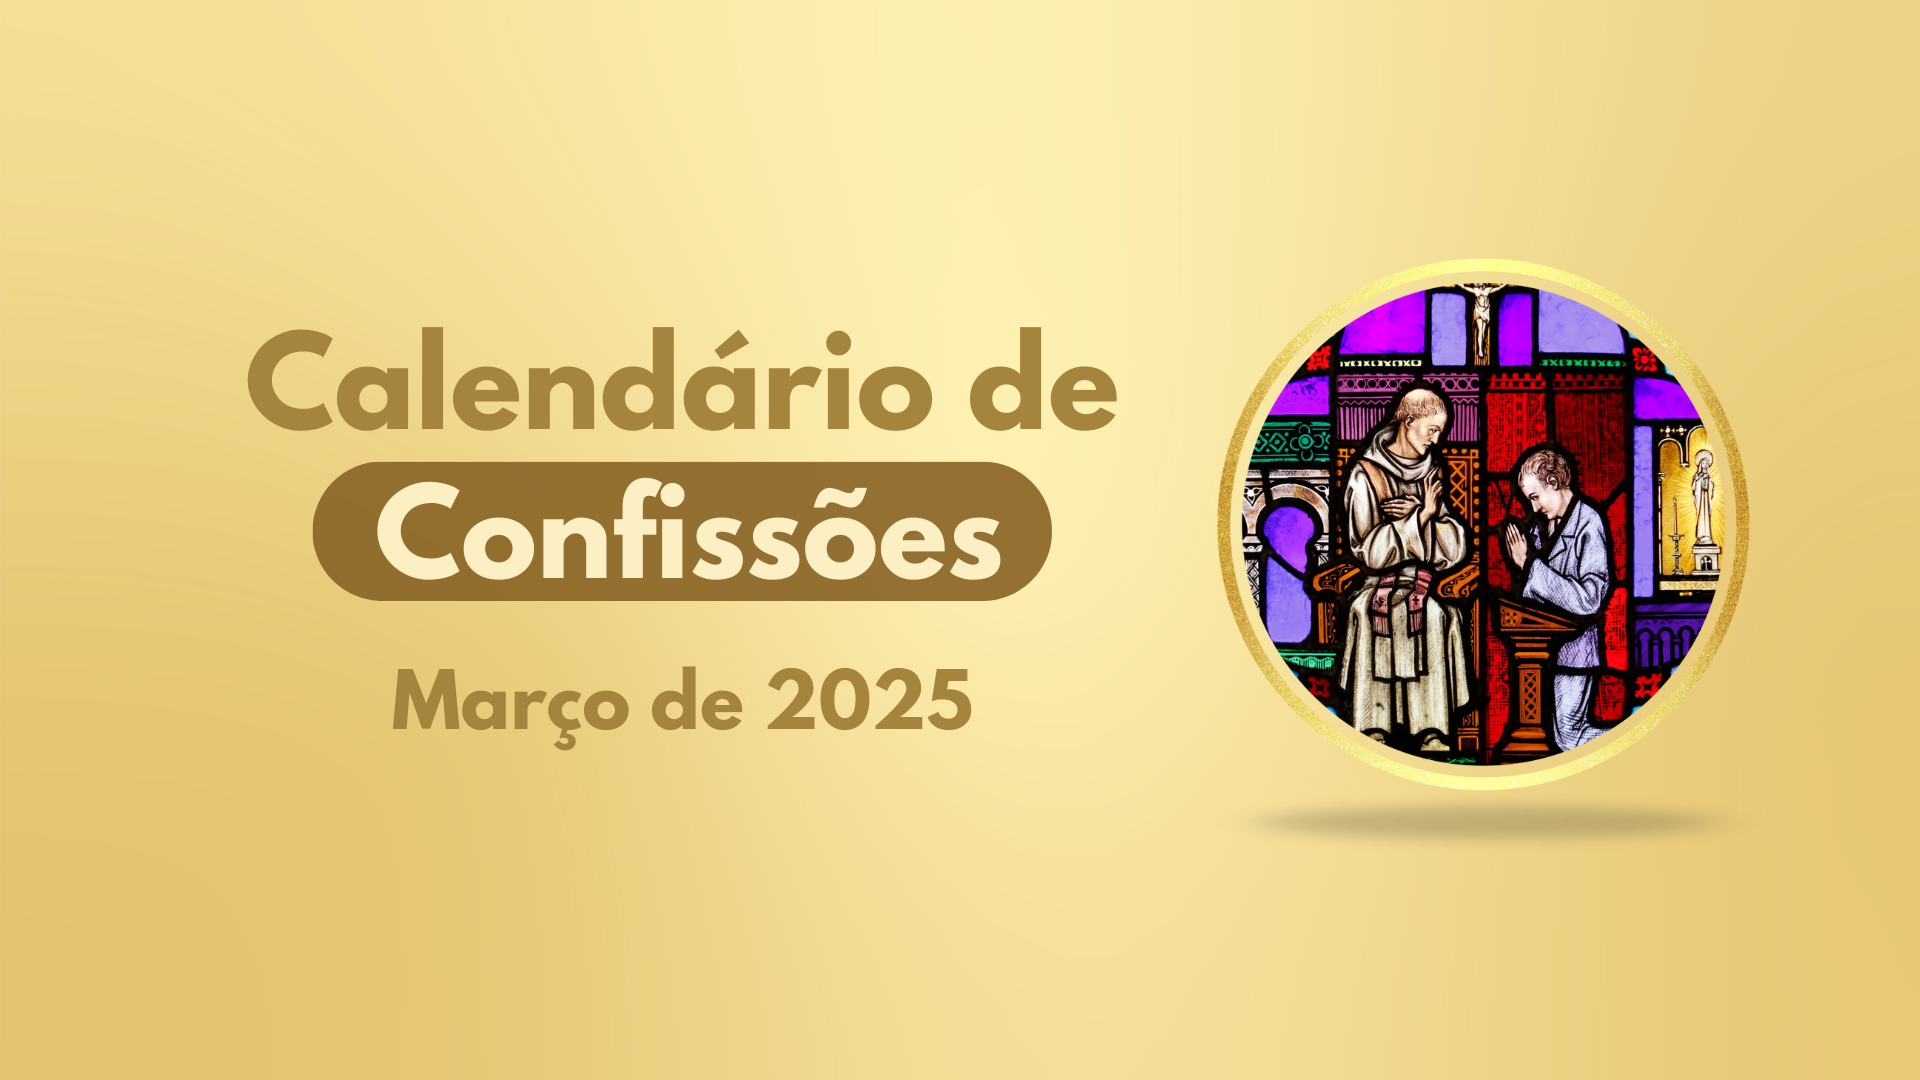
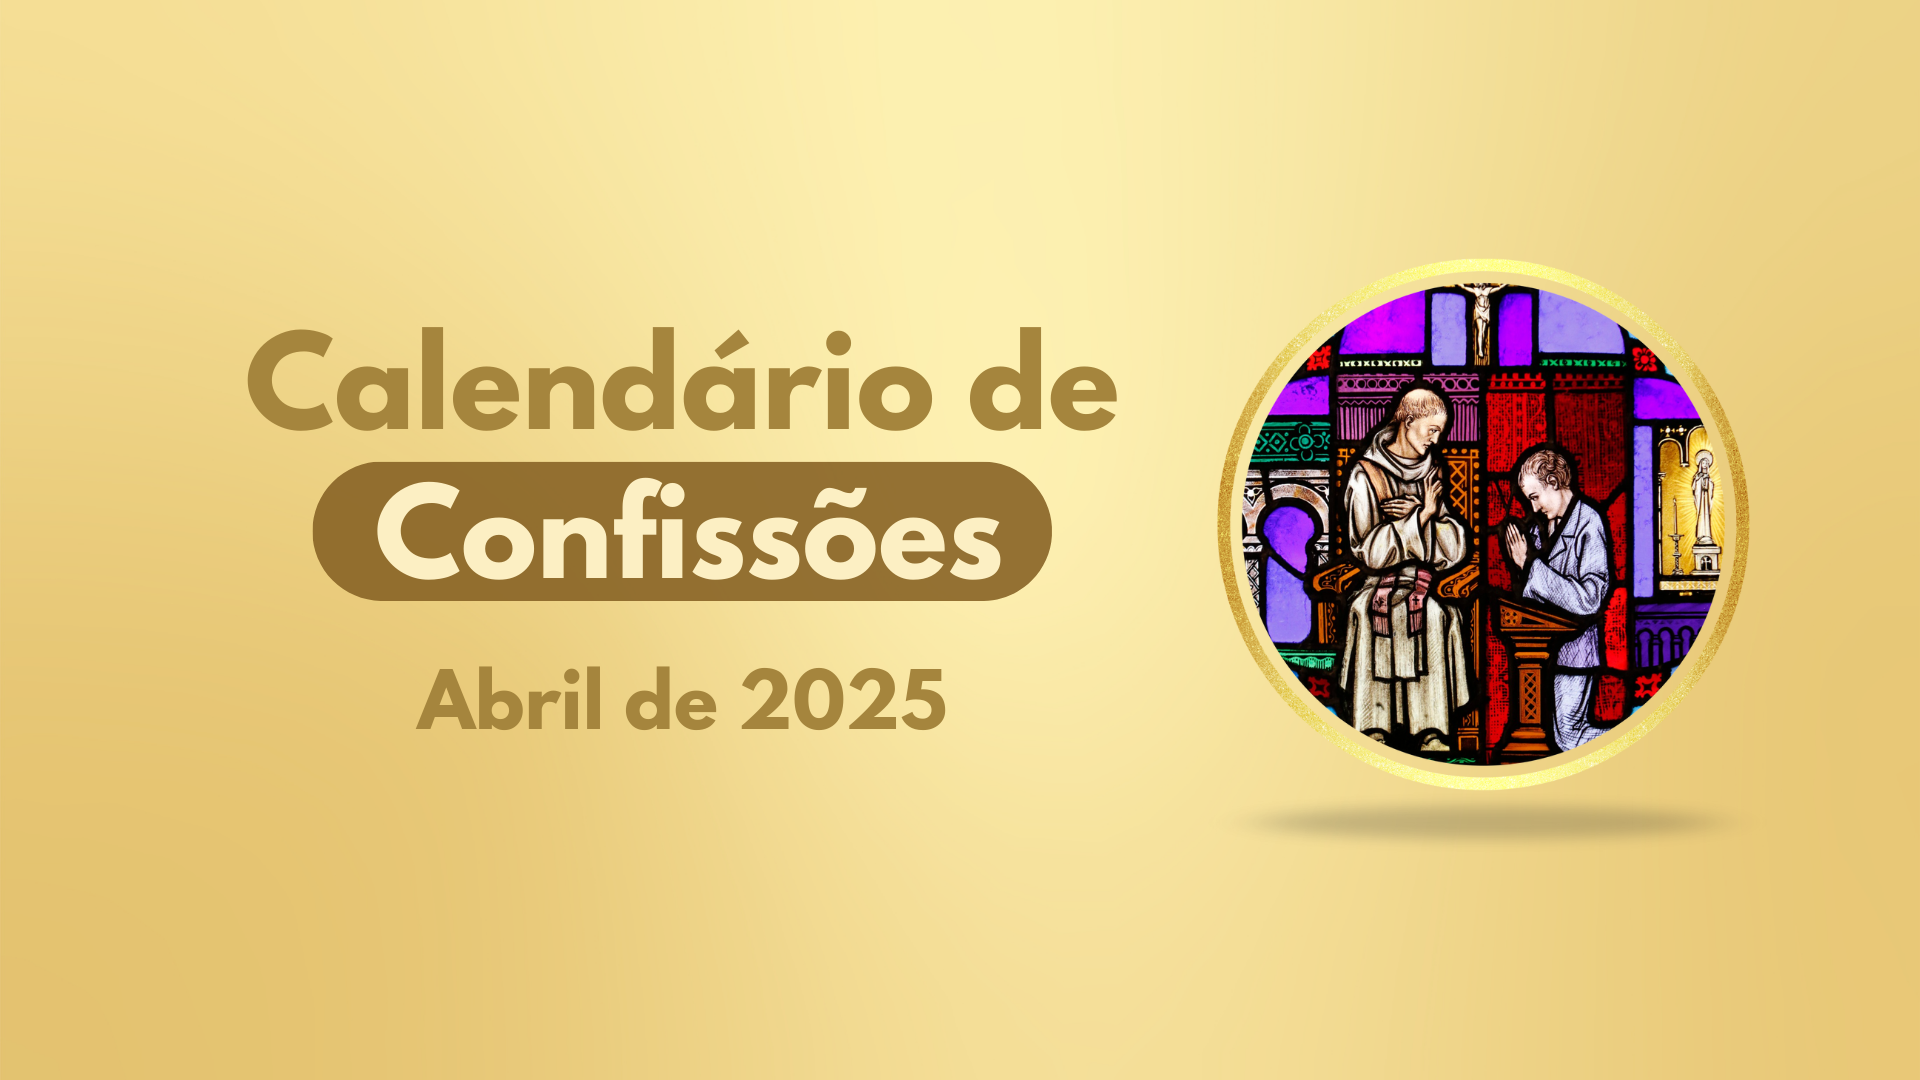
Att

Changed region(s): [[0.1875, 0.6111, 0.5312, 0.7028]]

diff --git a/src/features/missas/CalendarioMissas.tsx b/src/features/missas/CalendarioMissas.tsx
@@ -37,24 +37,121 @@ const CalendarioMissas: React.FC = () => {
   }, []);
 
   const escalas = [
-    { id: "83-2025-03-27-19h-CampoDelta", data: "2025-03-27", horario: "19h", local: "Campo Delta", padre: "Padre Ivan" },
-    { id: "83-2025-03-27-19h-MaeRainha", data: "2025-03-27", horario: "19h", local: "Mãe Rainha", padre: "Padre Rafael" },
+    { id: "83-2025-04-01-19h-Villares", data: "2025-04-01", horario: "19h", local: "Vilares", padre: "Padre Ivan" },
+    { id: "83-2025-04-01-19h-Urucará", data: "2025-04-01", horario: "19h", local: "Urucará", padre: "Padre Eudásio" },
 
-    { id: "83-2025-03-28-19h-Tabuba", data: "2025-03-28", horario: "19h", local: "Tabuba (Posse de Pe. Ednaldo)", padre: "Padre Eudásio" },
-    { id: "83-2025-03-28-19h-ConegoPinto", data: "2025-03-28", horario: "19h", local: "Cônego Pinto", padre: "Padre Ivan" },
-    { id: "83-2025-03-28-19h-Rosario", data: "2025-03-28", horario: "19h", local: "Rosário", padre: "Padre Rafael" },
+    { id: "83-2025-04-02-19h-Matriz", data: "2025-04-02", horario: "19h", local: "Matriz", padre: "Padre Rafael" },
+    { id: "83-2025-04-02-19h-Guabiraba", data: "2025-04-02", horario: "19h", local: "Guabiraba", padre: "Padre Ivan" },
 
-    { id: "83-2025-03-29-17h-SaoBenedito", data: "2025-03-29", horario: "17h", local: "São Benedito", padre: "Padre Rafael" },
-    { id: "83-2025-03-29-19h-Matriz", data: "2025-03-29", horario: "19h", local: "Matriz", padre: "Padre Ivan" },
+    { id: "83-2025-04-03-19h-Matriz", data: "2025-04-03", horario: "19h", local: "Parque das Rosas", padre: "Padre Rafael" },
+    { id: "83-2025-04-03-19h-Guabiraba", data: "2025-04-03", horario: "19h", local: "Mororó", padre: "Padre Ivan" },
 
-    { id: "83-2025-03-30-07h-Matriz", data: "2025-03-30", horario: "07h", local: "Matriz", padre: "Padre Eudásio" },
-    { id: "83-2025-03-30-07h-Divino", data: "2025-03-30", horario: "07h", local: "Divino", padre: "Padre Ivan" },
-    { id: "83-2025-03-30-09h-Matriz", data: "2025-03-30", horario: "09h", local: "Matriz", padre: "Padre Eudásio" },
-    { id: "83-2025-03-30-17h-PqSaoJoao", data: "2025-03-30", horario: "17h", local: "Parque São João", padre: "Padre Ivan" },
-    { id: "83-2025-03-30-17h-CentroPastoral", data: "2025-03-30", horario: "17h", local: "Centro de Pastoral", padre: "Padre Eudásio" },
-    { id: "83-2025-03-30-17h-Divino", data: "2025-03-30", horario: "17h", local: "Divino", padre: "Padre Rafael" },
-    { id: "83-2025-03-30-19h-NPqIracema", data: "2025-03-30", horario: "19h", local: "Novo Parque Iracema", padre: "Padre Ivan" },
-    { id: "83-2025-03-30-19h-PqSaoJoao", data: "2025-03-30", horario: "19h", local: "Matriz", padre: "Padre Rafael" }
+    { id: "83-2025-04-04-18h-CP", data: "2025-04-04", horario: "18h30", local: "Centro Pastoral (Primeira sexta)", padre: "Padre Eudásio" },
+    { id: "83-2025-04-04-18h-CP", data: "2025-04-04", horario: "18h30", local: "Centro Pastoral (Primeira sexta)", padre: "Padre Rafael" },
+
+    { id: "83-2025-04-05-17h-SantoAntonio", data: "2025-04-05", horario: "17h", local: "Santo Antônio", padre: "Padre Rafael" },
+    { id: "83-2025-04-05-17h-SantaLuzia", data: "2025-04-05", horario: "17h", local: "Santa Luzia", padre: "Padre Ivan" },
+    { id: "83-2025-04-05-19h-Coite", data: "2025-04-05", horario: "19h", local: "Coité", padre: "Padre Eudásio" },
+    { id: "83-2025-04-05-19h-Matriz", data: "2025-04-05", horario: "19h", local: "Matriz", padre: "Padre Ivan" },
+    { id: "83-2025-04-05-19h-BatismoDivino", data: "2025-04-05", horario: "19h", local: "Batismo no Divino", padre: "Padre Rafael" },
+
+    { id: "83-2025-04-06-07h-Matriz", data: "2025-04-06", horario: "07h", local: "Matriz", padre: "Padre Eudásio" },
+    { id: "83-2025-04-06-07h-Divino", data: "2025-04-06", horario: "07h", local: "Divino", padre: "Padre Rafael" },
+    { id: "83-2025-04-06-09h-Matriz", data: "2025-04-06", horario: "09h", local: "Matriz", padre: "Padre Eudásio" },
+    { id: "83-2025-04-06-09h-SaoJose", data: "2025-04-06", horario: "09h", local: "São José", padre: "Padre Ivan" },
+    { id: "83-2025-04-06-10h30-BatismoMatriz", data: "2025-04-06", horario: "10h30", local: "Batismo na Matriz", padre: "Padre Rafael" },
+    { id: "83-2025-04-06-17h-CentroPastoral", data: "2025-04-06", horario: "17h", local: "Centro Pastoral", padre: "Padre Eudásio" },
+    { id: "83-2025-04-06-17h-Divino", data: "2025-04-06", horario: "17h", local: "Divino", padre: "Padre Ivan" },
+    { id: "83-2025-04-06-17h-PqSaoJoao", data: "2025-04-06", horario: "17h", local: "Parque São João com Batismo", padre: "Padre Rafael" },
+    { id: "83-2025-04-06-19h-NPIracema", data: "2025-04-06", horario: "19h", local: "Novo Parque Iracema", padre: "Padre Ivan" },
+    { id: "83-2025-04-06-19h-Matriz", data: "2025-04-06", horario: "19h", local: "Matriz", padre: "Padre Rafael" },
+
+    { id: "83-2025-04-08-19h-Matriz", data: "2025-04-08", horario: "19h", local: "Matriz (Missa Votiva a NSP)", padre: "Padre Eudásio" },
+    { id: "83-2025-04-08-19h-Matriz", data: "2025-04-08", horario: "19h", local: "Matriz (Missa Votiva a NSP)", padre: "Padre Rafael" },
+    { id: "83-2025-04-08-19h-Matriz", data: "2025-04-08", horario: "19h", local: "Matriz (Missa Votiva a NSP)", padre: "Padre Ivan" },
+
+    { id: "83-2025-04-09-19h-MissaFamilias", data: "2025-04-09", horario: "19h", local: "Missa pelas famílias", padre: "Padre Rafael" },
+    { id: "83-2025-04-09-19h-SantosDumont", data: "2025-04-09", horario: "19h", local: "Santos Dumont", padre: "Padre Ivan" },
+
+    { id: "83-2025-04-11-19h-MatrizJubilar", data: "2025-04-11", horario: "19h", local: "Matriz (Missa Jubilar)", padre: "Padre Eudásio" },
+    { id: "83-2025-04-11-19h-MatrizJubilar", data: "2025-04-11", horario: "19h", local: "Matriz (Missa Jubilar)", padre: "Padre Rafael" },
+    { id: "83-2025-04-11-19h-MatrizJubilar", data: "2025-04-11", horario: "19h", local: "Matriz (Missa Jubilar)", padre: "Padre Ivan" },
+
+    { id: "83-2025-04-12-19h-Matriz", data: "2025-04-12", horario: "19h", local: "Matriz", padre: "Padre Ivan" },
+    { id: "83-2025-04-12-19h-OutraBanda", data: "2025-04-12", horario: "18h", local: "Outra Banda", padre: "Padre Eudásio" },
+    { id: "83-2025-04-12-19h-BatismoOutraBanda", data: "2025-04-12", horario: "19h", local: "Batismo na Outra Banda", padre: "Padre Rafael" },
+
+    { id: "83-2025-04-13-07h-Matriz", data: "2025-04-13", horario: "07h", local: "Matriz", padre: "Padre Eudásio" },
+    { id: "83-2025-04-13-07h-Abrigo", data: "2025-04-13", horario: "07h", local: "Abrigo", padre: "Padre Ivan" },
+    { id: "83-2025-04-13-07h-Divino", data: "2025-04-13", horario: "07h", local: "Divino", padre: "Padre Rafael" },
+    { id: "83-2025-04-13-09h-Matriz", data: "2025-04-13", horario: "09h", local: "Matriz", padre: "Padre Eudásio" },
+    { id: "83-2025-04-13-09h-BatismoCoite", data: "2025-04-13", horario: "09h", local: "Batismo no Coité", padre: "Padre Rafael" },
+    { id: "83-2025-04-13-12h-Matriz", data: "2025-04-13", horario: "12h", local: "Matriz", padre: "Padre Ivan" },
+    { id: "83-2025-04-13-15h30-Vilares", data: "2025-04-13", horario: "15h30", local: "Vilares", padre: "Padre Eudásio" },
+    { id: "83-2025-04-13-17h-CentroPastoral", data: "2025-04-13", horario: "17h", local: "Centro de Pastoral", padre: "Padre Eudásio" },
+    { id: "83-2025-04-13-17h-PqSaoJoao", data: "2025-04-13", horario: "17h", local: "Parque São João", padre: "Padre Rafael" },
+    { id: "83-2025-04-13-17h-Divino", data: "2025-04-13", horario: "17h", local: "Divino", padre: "Padre Ivan" },
+    { id: "83-2025-04-13-19h-Matriz", data: "2025-04-13", horario: "19h", local: "Matriz", padre: "Padre Rafael" },
+    { id: "83-2025-04-13-19h-NPIracema", data: "2025-04-13", horario: "19h", local: "Novo Parque Iracema", padre: "Padre Ivan" },
+
+    { id: "83-2025-04-14-19h-Matriz", data: "2025-04-14", horario: "19h", local: "Matriz - Via sacra", padre: "Padre Eudásio" },
+    { id: "83-2025-04-15-19h-Matriz", data: "2025-04-15", horario: "19h", local: "Matriz - Via sacra", padre: "Padre Eudásio" },
+    { id: "83-2025-04-16-19h-Matriz", data: "2025-04-16", horario: "19h", local: "Matriz - Queima dos pecados", padre: "Padre Eudásio" },
+
+    { id: "83-2025-04-17-19h-Matriz", data: "2025-04-17", horario: "19h", local: "Matriz - Santa Ceia e Lava pés", padre: "Padre Eudásio" },
+    { id: "83-2025-04-17-19h-Divino", data: "2025-04-17", horario: "19h", local: "Divino - Santa Ceia e Lava pés", padre: "Padre Roberto" },
+    { id: "83-2025-04-17-19h-NossaSenhoraParqueIracema", data: "2025-04-17", horario: "19h", local: "Novo Parque Iracema - Santa Ceia e Lava pés", padre: "Padre Rafael" },
+    { id: "83-2025-04-17-19h-PqSaoJoao", data: "2025-04-17", horario: "19h", local: "Parque São João - Santa Ceia e Lava pés", padre: "Padre Ivan" },
+
+
+    { id: "83-2025-04-18-15h-PaixaoMatriz", data: "2025-04-18", horario: "15h", local: "Matriz - Paixão e Morte do Senhor", padre: "Padre Eudásio" },
+    { id: "83-2025-04-18-15h-PaixaoDivino", data: "2025-04-18", horario: "15h", local: "Divino - Paixão e Morte do Senhor", padre: "Padre Roberto" },
+    { id: "83-2025-04-18-15h-NossaSenhoraParqueIracema", data: "2025-04-18", horario: "15h", local: "Novo Parque Iracema - Paixão e Morte do Senhor", padre: "Padre Rafael" },
+    { id: "83-2025-04-18-15h-PaixaoPqSaoJoao", data: "2025-04-18", horario: "15h", local: "Parque São João - Paixão e Morte do Senhor", padre: "Padre Ivan" },
+
+    { id: "83-2025-04-19-19h-Matriz", data: "2025-04-19", horario: "19h", local: "Matriz - Vigília Pascal", padre: "Padre Eudásio" },
+    { id: "83-2025-04-19-19h-Divino", data: "2025-04-19", horario: "19h", local: "Divino - Vigília Pascal", padre: "Padre Roberto" },
+    { id: "83-2025-04-19-19h-NossaSenhoraParqueIracema", data: "2025-04-19", horario: "19h", local: "Novo Parque Iracema - Vigília Pascal", padre: "Padre Rafael" },
+    { id: "83-2025-04-19-19h-PqSaoJoao", data: "2025-04-19", horario: "19h", local: "Parque São João - Vigília Pascal", padre: "Padre Ivan" },
+
+    { id: "83-2025-04-20-07h-Matriz", data: "2025-04-20", horario: "07h", local: "Matriz", padre: "Padre Rafael" },
+    { id: "83-2025-04-20-07h-Divino", data: "2025-04-20", horario: "07h", local: "Divino", padre: "Padre Roberto" },
+    { id: "83-2025-04-20-09h-NovoParqueIracema", data: "2025-04-20", horario: "09h", local: "Batizado Novo Parque Iracema", padre: "Padre Rafael" },
+    { id: "83-2025-04-20-09h-SaoJose", data: "2025-04-20", horario: "09h", local: "São José", padre: "Padre Ivan" },
+    { id: "83-2025-04-20-09h-Matriz", data: "2025-04-20", horario: "09h", local: "Matriz", padre: "Padre Eudásio" },
+    { id: "83-2025-04-20-17h-Divino", data: "2025-04-20", horario: "17h", local: "Divino", padre: "Padre Rafael" },
+    { id: "83-2025-04-20-17h-PqSaoJoao", data: "2025-04-20", horario: "17h", local: "Parque São João", padre: "Padre Ivan" },
+    { id: "83-2025-04-20-17h-CentroPastoral", data: "2025-04-20", horario: "17h", local: "Centro de Pastoral", padre: "Padre Eudásio" },
+    { id: "83-2025-04-20-19h-NovoParqueIracema", data: "2025-04-20", horario: "19h", local: "Novo Parque Iracema", padre: "Padre Rafael" },
+    { id: "83-2025-04-20-19h-Matriz", data: "2025-04-20", horario: "19h", local: "Matriz", padre: "Padre Eudásio" },
+    
+    { id: "83-2025-04-22-19h-SerraPelada", data: "2025-04-22", horario: "19h", local: "Serra Pelada", padre: "Padre Rafael" },
+
+    { id: "83-2025-04-23-19h-SantaCecilia", data: "2025-04-23", horario: "19h", local: "Santa Cecília", padre: "Padre Ivan" },
+    { id: "83-2025-04-23-19h-Matriz", data: "2025-04-23", horario: "19h", local: "Matriz - Missa pelas familias", padre: "Convidado" },
+
+    { id: "83-2025-04-24-19h-MaeRainha", data: "2025-04-24", horario: "19h", local: "Mãe Rainha", padre: "Padre Rafael" },
+    { id: "83-2025-04-24-19h-CampoDelta", data: "2025-04-24", horario: "19h", local: "Campo Delta", padre: "Padre Ivan" },
+
+    { id: "83-2025-04-25-19h-ConegoPinto", data: "2025-04-25", horario: "19h", local: "Cônego Pinto", padre: "Padre Rafael" },
+    { id: "83-2025-04-25-19h-Rosario", data: "2025-04-25", horario: "19h", local: "Rosário", padre: "Padre Ivan" },
+
+    { id: "83-2025-04-26-17h-Abrigo", data: "2025-04-26", horario: "17h", local: "Abrigo", padre: "Padre Ivan" },
+    { id: "83-2025-04-26-17h-SantaDulce", data: "2025-04-26", horario: "17h", local: "Santa Dulce", padre: "Padre Eudásio" },
+    { id: "83-2025-04-26-19h-OutraBanda", data: "2025-04-26", horario: "19h", local: "Outra Banda", padre: "Padre Ivan" },
+    { id: "83-2025-04-26-19h-Matriz", data: "2025-04-26", horario: "19h", local: "Matriz", padre: "Padre Eudásio" },
+
+    { id: "83-2025-04-27-07h-Matriz", data: "2025-04-27", horario: "07h", local: "Matriz", padre: "Padre Rafael" },
+    { id: "83-2025-04-27-07h-Divino", data: "2025-04-27", horario: "07h", local: "Divino", padre: "Padre Ivan" },
+    { id: "83-2025-04-27-09h-Matriz", data: "2025-04-27", horario: "09h", local: "Matriz", padre: "Padre Eudásio" },
+    { id: "83-2025-04-27-15h30-SantosDumont", data: "2025-04-27", horario: "15h30", local: "Santos Dumont", padre: "Padre Eudásio" },
+    { id: "83-2025-04-27-17h-Divino", data: "2025-04-27", horario: "17h", local: "Divino", padre: "Padre Rafael" },
+    { id: "83-2025-04-27-17h-CentroPastoral", data: "2025-04-27", horario: "17h", local: "Centro de Pastoral", padre: "Padre Ivan" },
+    { id: "83-2025-04-27-17h-PqSaoJoao", data: "2025-04-27", horario: "17h", local: "Parque São João", padre: "Padre Eudásio" },
+    { id: "83-2025-04-27-19h-Matriz", data: "2025-04-27", horario: "19h", local: "Matriz", padre: "Padre Eudásio" },
+    { id: "83-2025-04-27-19h-NovoParqueIracema", data: "2025-04-27", horario: "19h", local: "Novo Parque Iracema", padre: "Padre Ivan" },
+    
+    { id: "83-2025-04-30-19h-Matriz", data: "2025-04-30", horario: "19h", local: "Matriz - Missa pelas famílias", padre: "Padre Rafael" }
   ];
 
 

diff --git a/src/pages/TelaInicial.tsx b/src/pages/TelaInicial.tsx
@@ -7,20 +7,20 @@ const TelaInicial: React.FC = () => {
   const noticiasConfissoes = [
     {
       id: "4",
-      titulo: "Calendário de Confissões de Março",
+      titulo: "Calendário de Confissões de Abril",
       link: "/noticias/4",
       imagem: "/confissoes.png",
-      alt: "Calendário de Confissões de Março",
+      alt: "Calendário de Confissões de Abril",
     },
   ];
 
   const noticiasMissas = [
     {
       id: "3",
-      titulo: "Calendário de Missas de Março",
+      titulo: "Calendário de Missas de Abril",
       link: "/noticias/3",
       imagem: "/pnsp.png",
-      alt: "Calendário de Missas de Março",
+      alt: "Calendário de Missas de Abril",
     },
   ];
 
